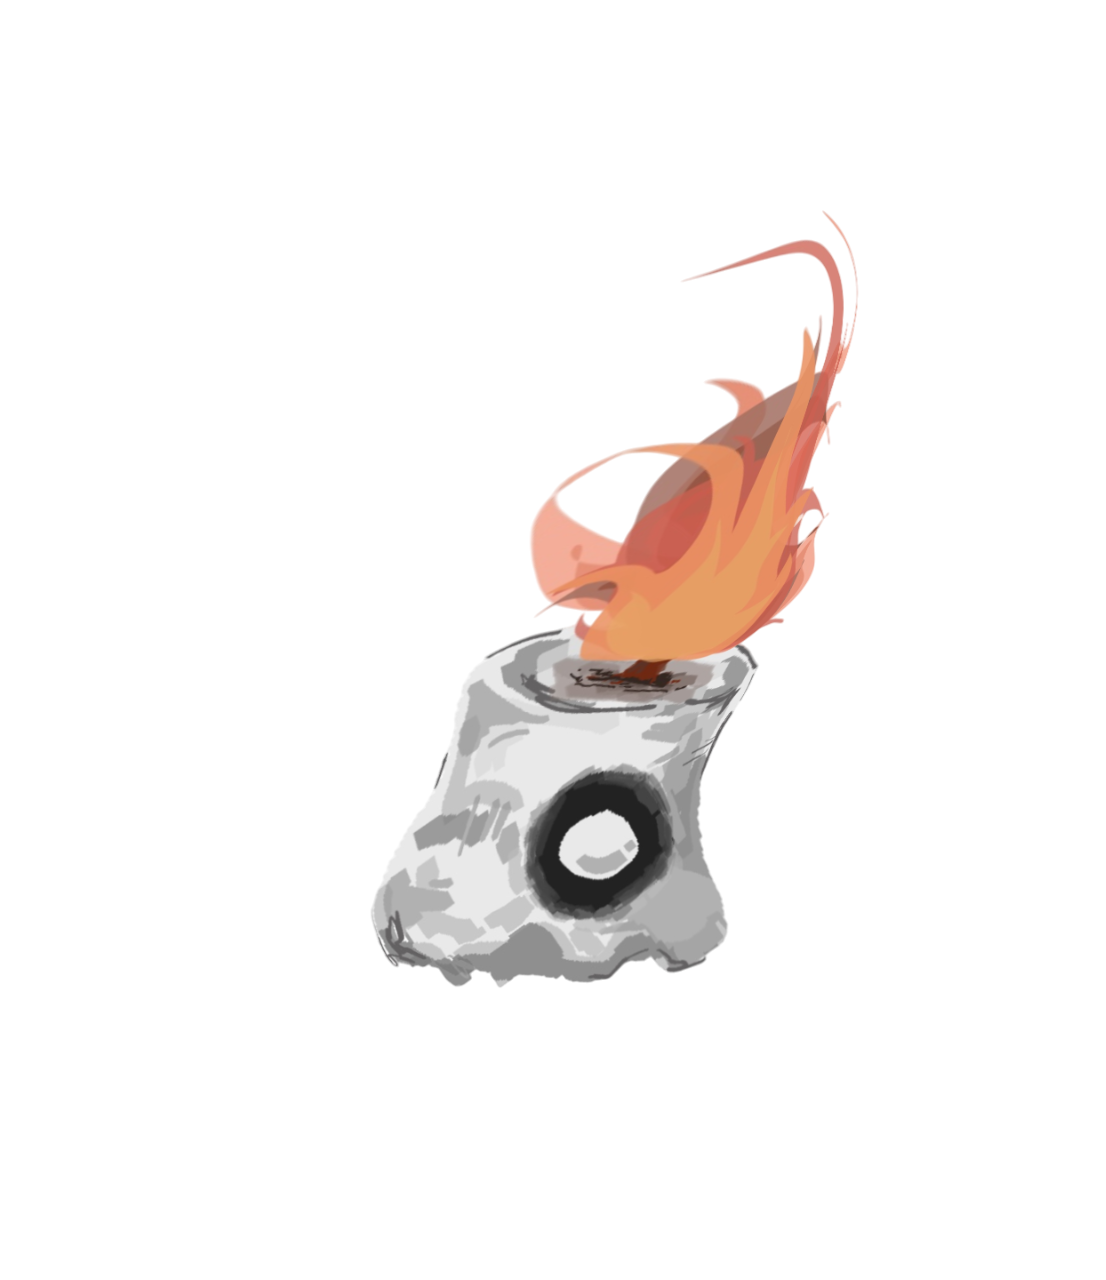
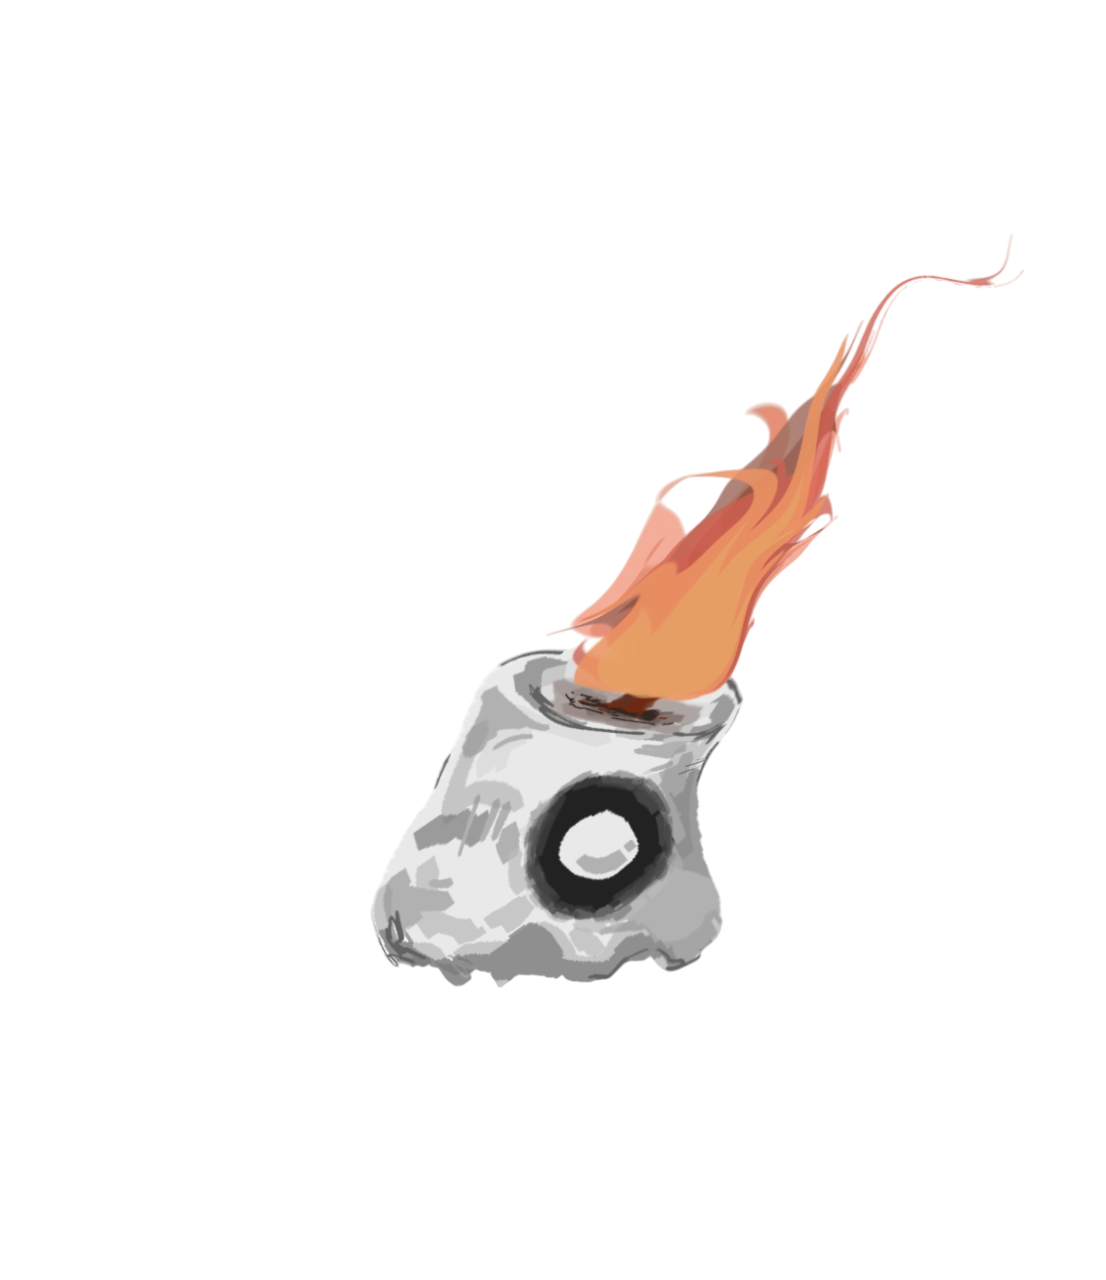
add string anmaition

diff --git a/spirit.py b/spirit.py
@@ -18,6 +18,7 @@ class Spirit():
         self.ct=0
         self.frame_index=0
         self.im_size=0
+        self.frame_speed=1
 
     def draw(self,screen):
         screen.blit(self.img,(self.hitbox.centerx-self.img.get_width()//2,self.hitbox.centery-self.img.get_height()//2))
@@ -31,11 +32,11 @@ class Spirit():
 
     def change_frame(self,dt):
         self.img=self.frame[self.condition][int(self.frame_index)]
-        if len(self.frame[self.condition]) <= int(self.frame_index+0.01*dt) :
+        if len(self.frame[self.condition]) <= int(self.frame_index+0.01*dt*self.frame_speed) :
             self.frame_index=0
         else:
-            self.frame_index+=0.01*dt
-    def if_change_condition(self):
+            self.frame_index+=0.01*dt*self.frame_speed
+    def change_condition(self):
         self.frame_index=0
 
 class Water_Spirit(Spirit):
@@ -56,11 +57,19 @@ class Stone_Spirit(Spirit):
         self.name = "stone"
         self.im_size=120
 
+
 class Fire_Spirit(Spirit):
     def __init__(self, pos):
         super().__init__(pos)
         self.name = "fire"
         self.im_size=130
+        self.frame_speed=1.5
+    def set_frame(self):
+        self.frame={
+            "attack": get_frame(f"asset/spirit/{self.name}/attack",self.im_size*1.2,self.im_size*1.2,255),
+            "idle": get_frame(f"asset/spirit/{self.name}/idle",self.im_size*1.05,self.im_size*1.05,255),
+            "spin": get_frame(f"asset/spirit/{self.name}/spin",self.im_size*1.2,self.im_size*1.2,255)
+        }
 
 class Dark_Spirit(Spirit):
     def __init__(self, pos):

diff --git a/button.py b/button.py
@@ -32,8 +32,12 @@ class Store_Button(Button):
         self.im = self.frame[0]
         
 
-        self.string_im=get_im("asset/ui/string.png")
-        self.string_im=set_im(self.string_im,self.im_size,self.im_size,255,True)
+        self.string_im=[]
+        self.string_im.append(get_im("asset/ui/string.png"))
+        self.string_im[0]=set_im(self.string_im[0],self.im_size,self.im_size,255,True)
+
+        self.string_im.append(get_im("asset/ui/string2.png"))
+        self.string_im[1]=set_im(self.string_im[1],self.im_size,self.im_size,255,True)
 
 
     def set_hitbox(self):
@@ -59,7 +63,7 @@ class Store_Button(Button):
 
     def draw(self, screen):
         screen.blit(self.im, (self.hitbox.centerx-self.im.get_width()//2,self.hitbox.centery-self.im.get_height()//2))
-        screen.blit(self.string_im, (self.original_pos[0]-self.string_im.get_width()//2,self.original_pos[1]-self.string_im.get_height()//5*2))
+        screen.blit(self.string_im[ 1 if self.dragging else 0], (self.original_pos[0]-self.string_im[ 1 if self.dragging else 0].get_width()//2,self.original_pos[1]-self.string_im[ 1 if self.dragging else 0].get_height()//5*2))
         #pygame.draw.rect(screen, (255, 0, 0), self.hitbox, 2)
 
     def change_frame(self,dt):

diff --git a/main.py b/main.py
@@ -81,6 +81,15 @@ while playing:
         i.draw(screen)
 
     for i in spirit_list:
+        if mouse_condition[0]:
+            i.condition="attack"
+            i.change_condition()
+        elif mouse_condition[1]:
+            i.condition="idle"
+            i.change_condition()
+        elif mouse_condition[2]:
+            i.condition="spin"
+            i.change_condition()
         i.change_frame(dt)
         i.draw(screen)
     for effects in effect_l:
